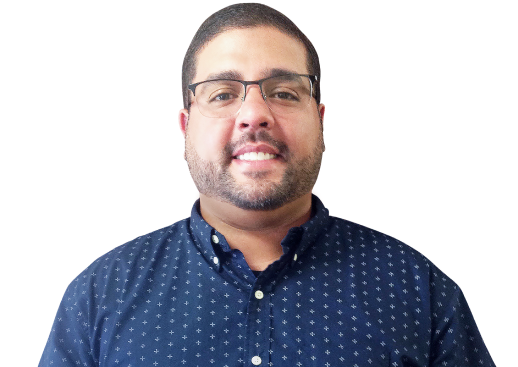
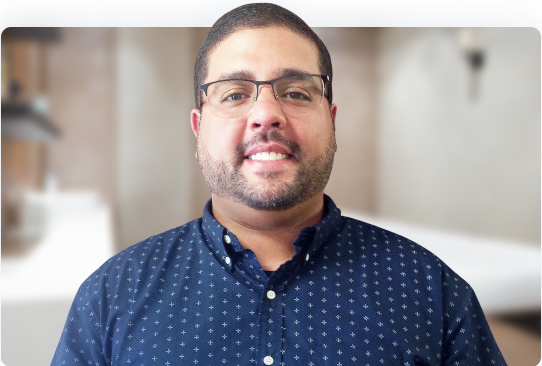
навигация в header скрывается на 1023px, появляется гамбургер, заменил изображение в биографии о докторе

diff --git a/src/scss/components/_biography-dr.scss b/src/scss/components/_biography-dr.scss
@@ -4,36 +4,33 @@
     display: grid;
     grid-template-columns: repeat(12, 1fr);
     grid-gap: 20px;
-    padding: 85px 0 20px 0;
+    padding: 85px 0 50px 0;
     @media (max-width: $desktop) {
-      padding: 49px 0 20px 0;
+      padding: 49px 0 35px 0;
     }
     @media (max-width: $tablet) {
       grid-template-columns: repeat(4, 1fr);
-      padding: 35px 0 20px 0;
+      padding: 25px 0 20px 0;
     }
   }
-  &__avatar {
-    position: absolute;
-    bottom: 0;
+  &__avatar { 
     width: 100%;
-    max-width: 518px;
+    max-width: 540px;
     z-index: 2;
+    grid-column: 1/7;
     @media (max-width: $big-desktop) {
-      width: 307px;
-      max-height: 217px;
+     // width: 307px;
+     // max-height: 217px;  
     }
     @media (max-width: $tablet) {
-      max-height: 190px;
-      max-width: 268px;
+      grid-column: 1/5;
+      max-width: 100%;
       width: 100%;
     }
 
     &_bg {
-      position: relative;
-      display: flex;
-      justify-content: center;
-      grid-column: 1/7;
+      
+
       background: url("./img/bg-biography.png");
       background-repeat: no-repeat;
       background-position: center;

diff --git a/src/html/components/biography-dr.html b/src/html/components/biography-dr.html
@@ -1,10 +1,9 @@
 <section class="biography-dr-Osvaldo">
   <div class="container">
     <div class="biography-dr-Osvaldo__block">
-
-      <div class="biography-dr-Osvaldo__avatar_bg">
+ 
         <img class="biography-dr-Osvaldo__avatar" src="./img/dr-Osvaldo.png" alt="">
-      </div>
+     
       <div class="biography-dr-Osvaldo__info">
         <h2 class="biography-dr-Osvaldo__title">Dr. Osvaldo «Ozzie» Gratacos</h2>
         <p class="biography-dr-Osvaldo__text biography-dr-Osvaldo__text_desktop">Dr. Osvaldo “Ozzie” Gratacos is a

diff --git a/src/scss/components/_header.scss b/src/scss/components/_header.scss
@@ -28,7 +28,7 @@
     display: flex;
     align-items: flex-start;
     justify-content: space-between;
-    @media (max-width: $desktop) {
+    @media (max-width: $big-desktop) {
       align-items: center;
       padding-top: 30px;
     }
@@ -59,7 +59,7 @@
     justify-content: space-between;
     padding-top: 7px;
     width: 74.5%;
-    @media (max-width: $desktop) {
+    @media (max-width: $big-desktop) {
       display: none;
     }
   }

diff --git a/src/scss/components/_services.scss b/src/scss/components/_services.scss
@@ -66,7 +66,7 @@
   box-shadow: 0px 0px 40px rgba(118, 157, 202, 0.15);
   max-width: 450px;
   @media (max-width: $desktop) {
-    max-width: 270px;
+    //max-width: 270px;
   }
   @media (max-width: $tablet) {
     max-width: 100%;

diff --git a/src/scss/components/_contact.scss b/src/scss/components/_contact.scss
@@ -3,7 +3,7 @@
   &__block {
     padding: 50px 0 50px 0;
     @media (max-width: $desktop) {
-      padding: 50px 0 30px 0;
+      padding: 35px 0 30px 0;
     }
     @media (max-width: $tablet) {
       padding: 25px 0 25px 0;

diff --git a/src/scss/components/_hamburger.scss b/src/scss/components/_hamburger.scss
@@ -7,7 +7,7 @@
   width: 26px;
   height: 18px;
   z-index: 2;
-  @media (max-width: $desktop) {
+  @media (max-width: $big-desktop) {
     display: flex;
   }
 
